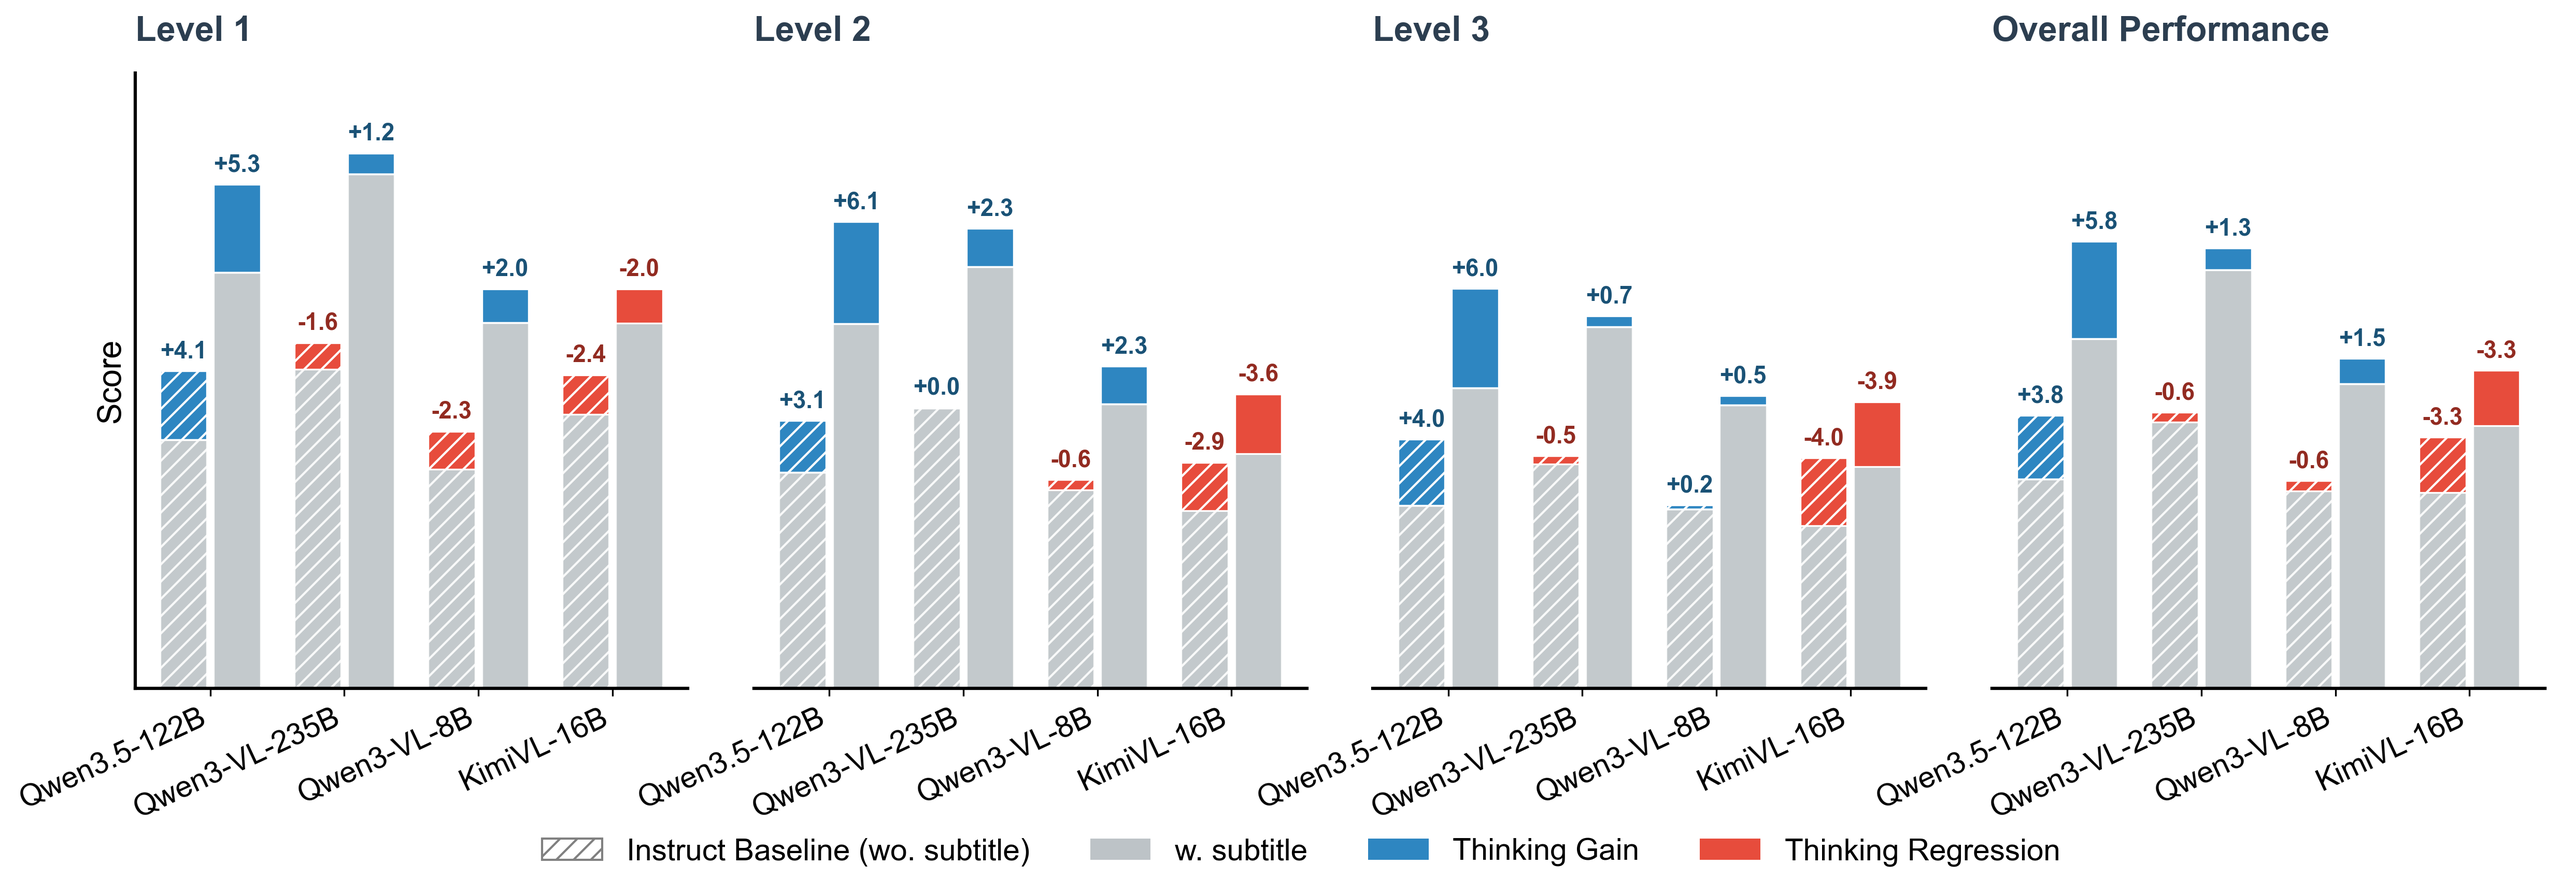
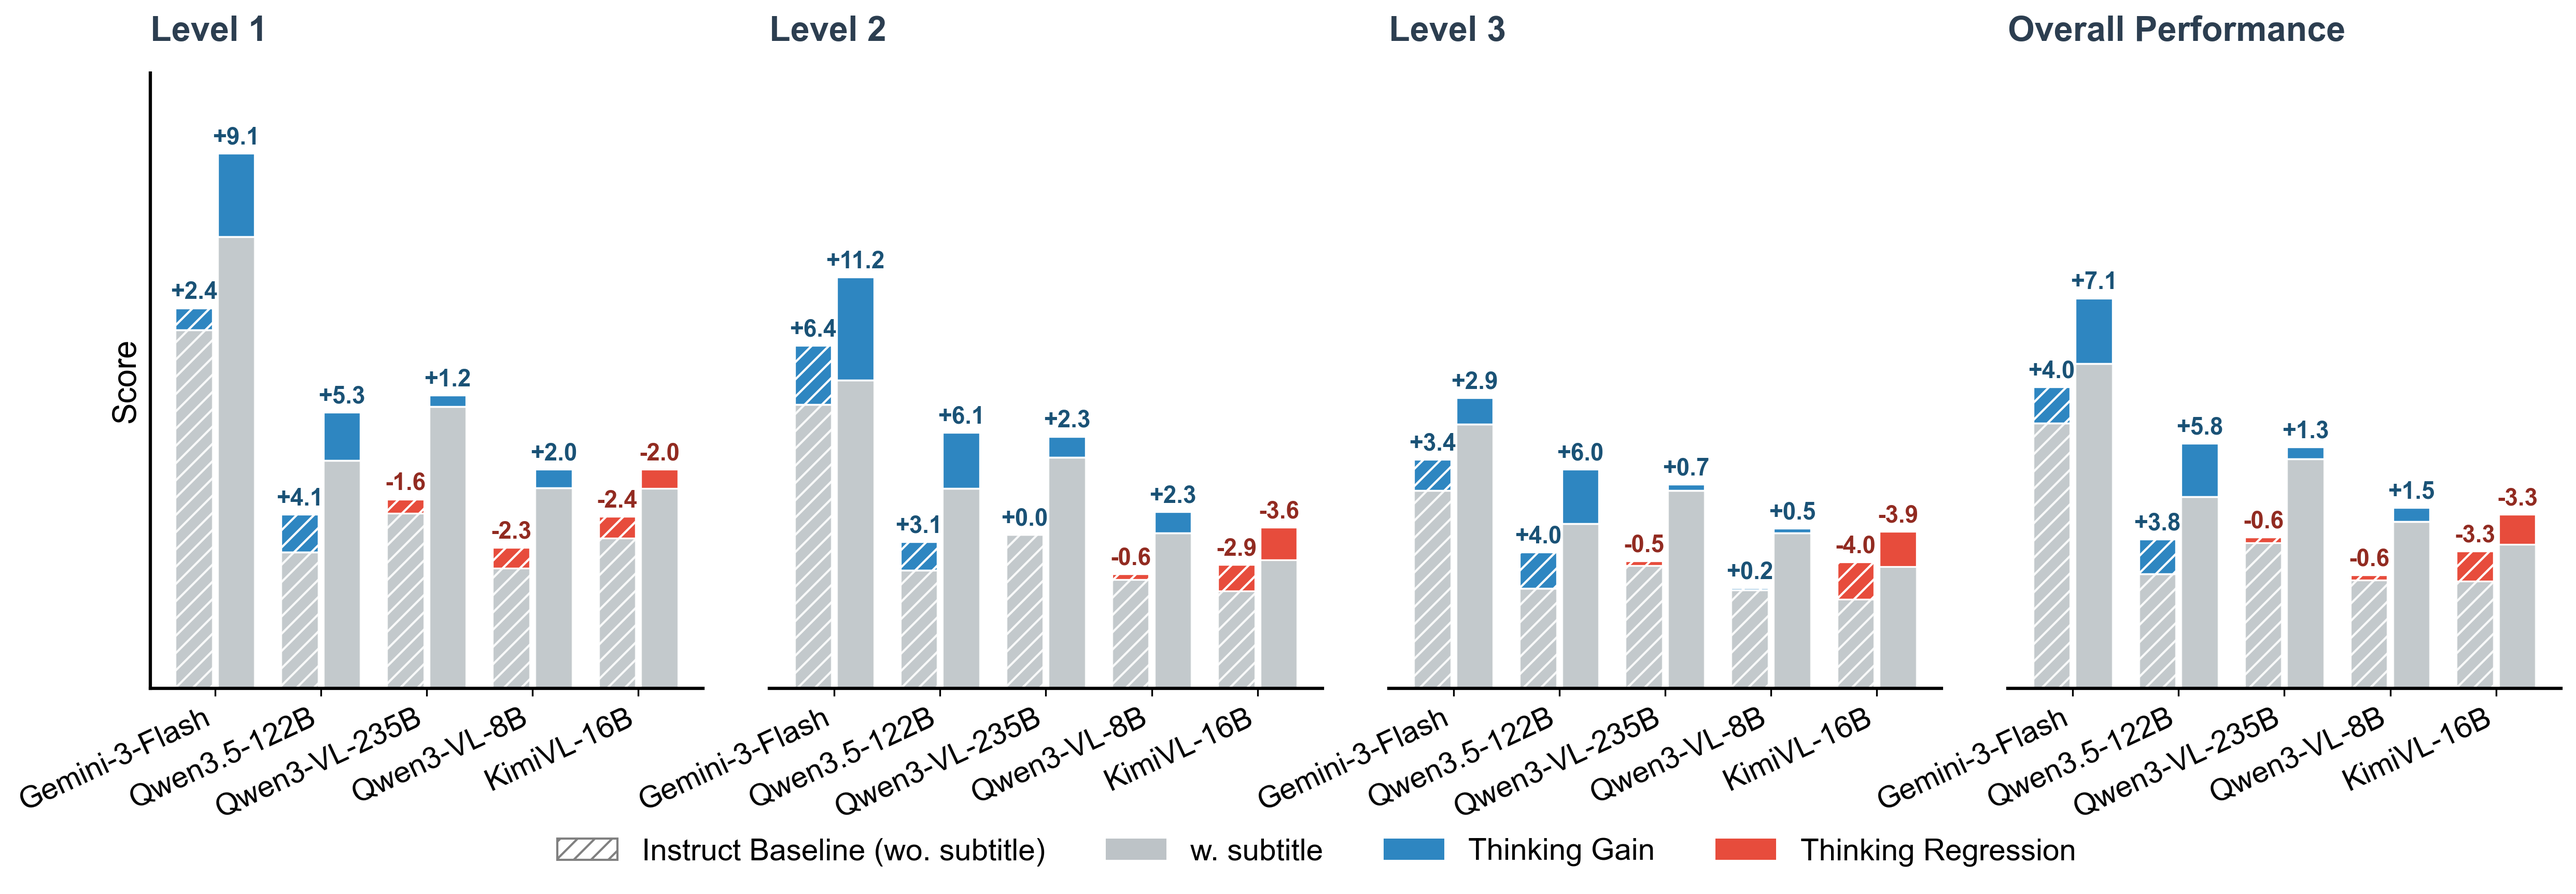
Gemini minimal thinking

diff --git a/index.html b/index.html
@@ -4207,10 +4207,10 @@
             </div>
             <div class="analysis-card-body" style="padding: 20px;">
                 <p data-lang-en style="margin-bottom: 1rem;">
-                    We compare the impact of enabling reasoning mode (Thinking Mode) on Video-MME v2 under with- and without-subtitle settings. The figure shows the instruction-tuned baseline (Instruct Baseline), and the gain or regression when Thinking is enabled.
+                    We compare the impact of stronger reasoning settings on Video-MME v2 under with- and without-subtitle conditions. The figure reports a matched baseline for each model, together with the gain or regression after switching to a stronger reasoning mode. For most open-source models, the comparison is between Instruct and Think under matched 64-frame settings; for <strong>Gemini-3-Flash</strong>, the comparison is between <strong>minimal_thinking</strong> and the standard reasoning configuration, both at 1fps.
                 </p>
                 <p data-lang-zh style="margin-bottom: 1rem;">
-                    我们在 Video-MME v2 上对比了无/有字幕两种设置下，开启推理模式（Thinking Mode）对模型性能的影响。图中展示了指令微调基线（Instruct Baseline）、以及开启 Thinking 后带来的增益（Gain）与倒退（Regression）。
+                    我们在 Video-MME v2 上对比了无/有字幕两种设置下，更强推理配置对模型性能的影响。图中展示了每个模型对应的匹配基线，以及切换到更强 reasoning mode 后带来的增益（Gain）与倒退（Regression）。其中，对大多数开源模型而言，对比的是相同 64-frame 设置下的 Instruct 与 Think；而对于 <strong>Gemini-3-Flash</strong>，对比的是同为 1fps 条件下的 <strong>minimal_thinking</strong> 与标准 reasoning 配置。
                 </p>
                 <p data-lang-en style="margin-bottom: 0.75rem;">
                     <strong>1. Text modality helps unlock reasoning:</strong> Overall, enabling Thinking with subtitles tends to yield more stable gains, while without subtitles the benefit is often smaller or can even turn negative. For example, <strong>Qwen3.5-122B-A10B</strong> gains +3.8 with no subtitle and +5.8 with subtitle on overall score. This suggests that explicit semantic cues from text make it easier for the model’s Thinking ability to be fully utilized.

diff --git a/figs/py/plt_thinking.py b/figs/py/plt_thinking.py
@@ -139,31 +139,35 @@ def create_custom_legend(fig):
 # Data Preparation
 # ---------------------------------------------------------------------------
 
-# We compare Instruct vs Think with matched 64-frame settings so the figure
-# isolates the effect of enabling Thinking mode rather than changing frames.
-GROUPS = ["Qwen3.5-122B", "Qwen3-VL-235B", "Qwen3-VL-8B", "KimiVL-16B"]
+# We compare baseline vs stronger reasoning mode with matched settings so the
+# figure isolates the effect of enabling more deliberate reasoning.
+GROUPS = ["Gemini-3-Flash", "Qwen3.5-122B", "Qwen3-VL-235B", "Qwen3-VL-8B", "KimiVL-16B"]
 
 # Raw Data (Pairs of [w_sub, wo_sub])
 # Order in lists: model-instruct, model-think, repeated for each group above.
 RAW_L1 = [
+    [49.26926298, 39.06509121], [58.33743842, 41.47905759],
     [24.86042693, 14.84400657], [30.11288998, 18.95730706],
     [30.72044335, 20.64860427], [31.96223317, 19.07840722],
     [21.83908046, 15.36535304], [23.87110016, 13.10550082],
     [23.87110016, 18.73768473], [21.82266010, 16.38752053],
 ]
 RAW_L2 = [
+    [33.60215054, 30.93918011], [44.82962213, 37.37139918],
     [21.79216867, 12.89993307], [27.88152610, 15.99062918],
     [25.19243641, 16.75535475], [27.48159304, 16.79216867],
     [16.97791165, 12.46485944], [19.24364123, 11.84571620],
     [17.59036145, 13.50903614], [14.01104418, 10.61077644],
 ]
 RAW_L3 = [
+    [28.79455684, 21.57567050], [31.66426513, 24.95183044],
     [17.94300766, 10.91475096], [23.89607280, 14.88386015],
     [21.59722222, 13.88649425], [22.25574713, 13.40756705],
     [16.93247126, 10.71599617], [17.47126437, 10.95186782],
     [17.12045019, 13.76077586], [13.26149425, 9.73299808],
 ]
 RAW_ALL = [
+    [35.43610761, 28.90004182], [42.53816395, 32.86805556],
     [20.9, 12.5], [26.7, 16.3],
     [25.0, 16.5], [26.3, 15.9],
     [18.2, 12.4], [19.7, 11.8],
